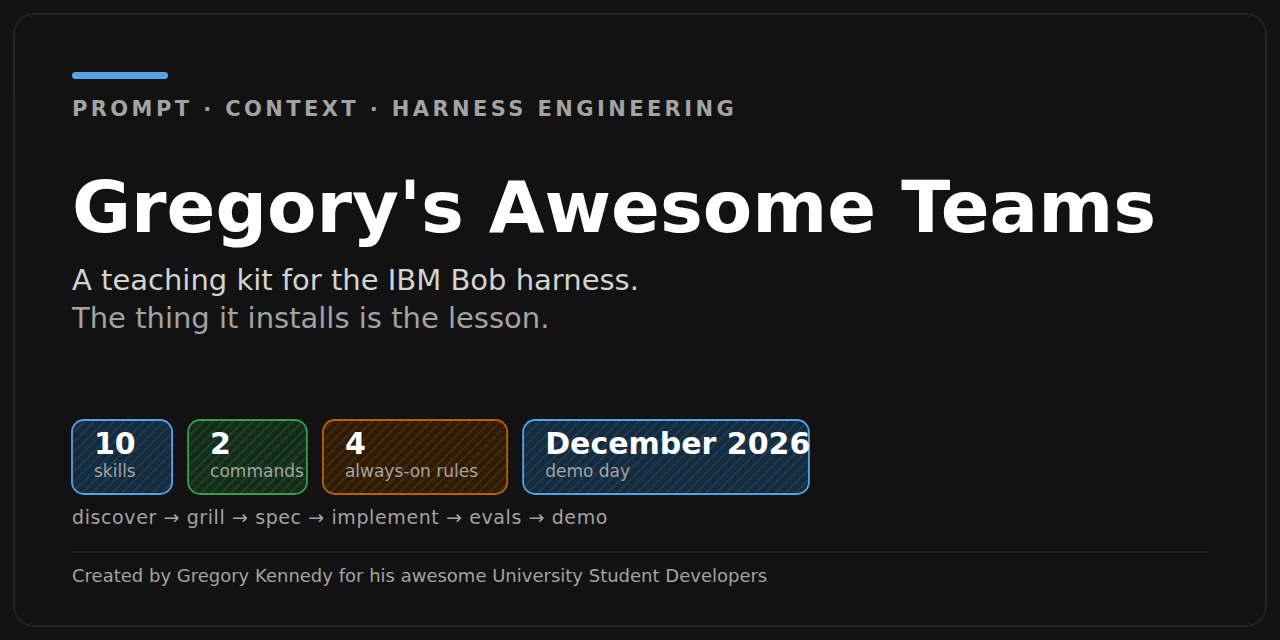
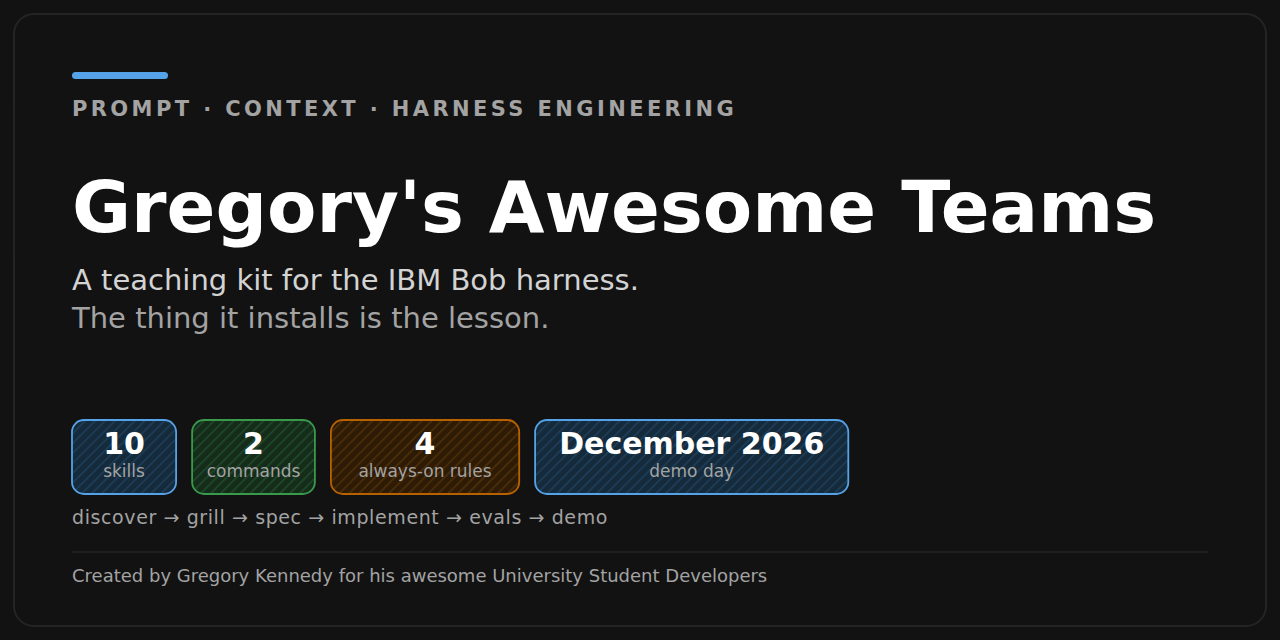
Centre the social card's stat chips, and measure them against their own box
"December 2026" was touching the right edge of its chip. Measured, it was
a pixel outside it.

The chip is sized from the string it holds, using CHAR_RATIO.bold -- which
is calibrated on the diagrams' body text and reads display type about 9%
narrow. It predicted 242px for a string Chromium sets at 265px, so the chip
came out 286px wide while the text, starting 22px in, ended at 287px. The
same under-estimate had already been caught on the card's title; this was
the second place it bites, and the first where it shipped.

Both lines of every chip are now centred, so a width error splits across
two margins rather than piling onto one, and the number is measured with
the display ratio.

The real fix is the guard. The rasteriser checked every line against the
outer frame, which the date cleared by 400px while overrunning its own box.
It now measures each line's padding inside its chip and fails below 8px.
Reproduced against the shipped layout before changing it:

  Error: social-card: text is touching the edge of its chip (needs 8px):
    chip 1: "commands" has 22px left, 3px right
    chip 3: "December 2026" has 22px left, -1px right

So it catches the reported bug and a second chip nobody had noticed. A test
also asserts, without needing Playwright, that both lines of each chip are
anchored middle on the same x.

471 tests pass, 98.45% lines; npm run lint:scripts is clean.

Claude-Session: https://claude.ai/code/session_01211t7AiQ8BNUHxcwN3C4WV

Changed region(s): [[0.0625, 0.6562, 0.6875, 0.7812]]

diff --git a/CHANGELOG.md b/CHANGELOG.md
@@ -6,6 +6,24 @@ adheres to [Semantic Versioning](https://semver.org/spec/v2.0.0.html).
 
 ## [Unreleased]
 
+### Fixed
+
+- **"December 2026" was touching the right edge of its own chip** on the social
+  preview card — overrunning it by a pixel, in fact. The chip was sized from
+  `CHAR_RATIO.bold`, which is calibrated on the diagrams' body text and reads
+  display type about 9% narrow: it predicted 242px for a string Chromium sets
+  at 265px, which ate all 22px of the right padding and one more. The same
+  under-estimate had already been caught on the card's title; this was the
+  second place it bites.
+
+  Both lines of every chip are now centred, so a width error splits across two
+  margins instead of piling onto one, and the number is measured with the
+  display ratio. The rasteriser now checks each line against **its own chip**
+  rather than only against the outer frame — the frame check had passed while
+  the date sat 400px inside it and a pixel outside its box. Reproduced against
+  the shipped layout first: the new guard reports `"December 2026" has 22px
+  left, -1px right`, and finds a second chip at 3px that nobody had noticed.
+
 ### Added
 
 - **A social preview card**, `assets/social-card.png`, generated from
